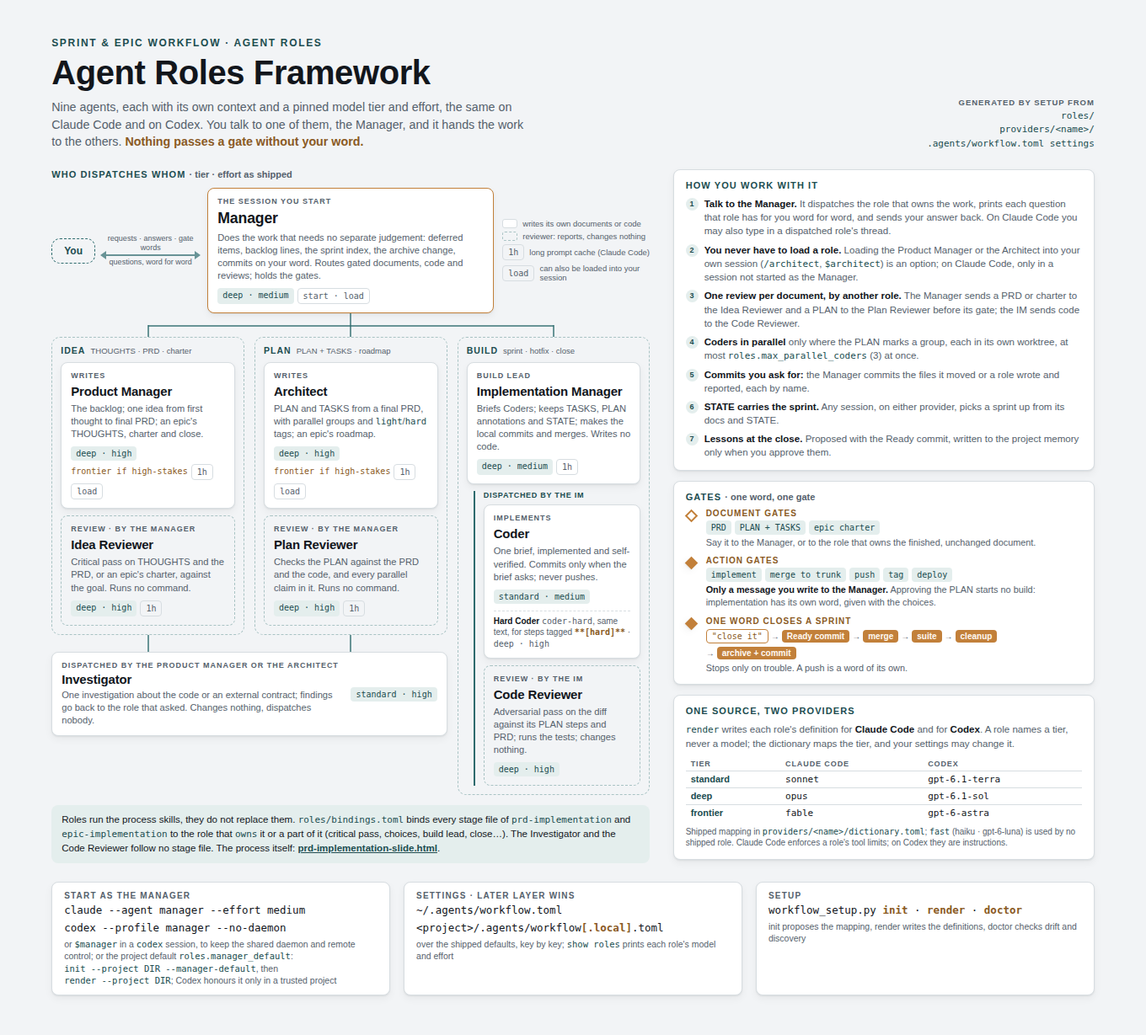
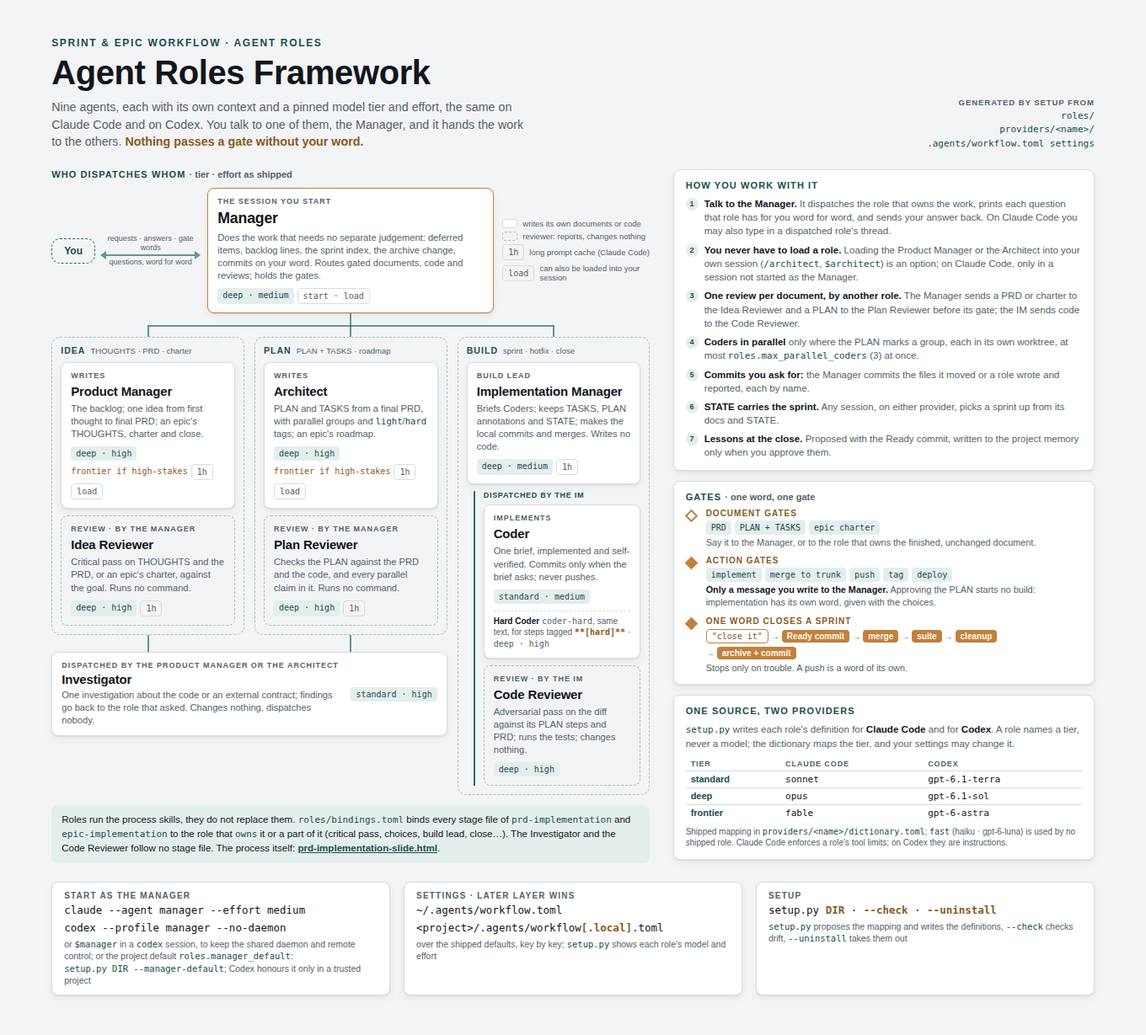
S06P7.3 — The other texts: AGENTS.md, roles/README.md, the role and provider texts, loading.md, the framework doc and the slide name setup.py and validate.py

diff --git a/docs/roles-framework-slide.html b/docs/roles-framework-slide.html
@@ -532,7 +532,7 @@
 
       <section class="panel" aria-label="One source, two providers">
         <p class="section-title">One source, two providers</p>
-        <p class="gen"><code>render</code> writes each role's definition for <b>Claude Code</b> and for <b>Codex</b>. A role names a tier, never a model; the dictionary maps the tier, and your settings may change it.</p>
+        <p class="gen"><code>setup.py</code> writes each role's definition for <b>Claude Code</b> and for <b>Codex</b>. A role names a tier, never a model; the dictionary maps the tier, and your settings may change it.</p>
         <table class="tiers">
           <thead><tr><th>Tier</th><th>Claude Code</th><th>Codex</th></tr></thead>
           <tbody>
@@ -552,18 +552,18 @@
       <p class="chip-label">Start as the Manager</p>
       <p class="chip-main">claude --agent manager --effort medium</p>
       <p class="chip-main">codex --profile manager --no-daemon</p>
-      <p class="chip-sub">or <code>$manager</code> in a <code>codex</code> session, to keep the shared daemon and remote control; or the project default <code>roles.manager_default</code>: <code>init --project DIR --manager-default</code>, then <code>render --project DIR</code>; Codex honours it only in a trusted project</p>
+      <p class="chip-sub">or <code>$manager</code> in a <code>codex</code> session, to keep the shared daemon and remote control; or the project default <code>roles.manager_default</code>: <code>setup.py DIR --manager-default</code>; Codex honours it only in a trusted project</p>
     </div>
     <div class="chip">
       <p class="chip-label">Settings · later layer wins</p>
       <p class="chip-main">~/.agents/workflow.toml</p>
       <p class="chip-main">&lt;project&gt;/.agents/workflow<span class="var">[.local]</span>.toml</p>
-      <p class="chip-sub">over the shipped defaults, key by key; <code>show roles</code> prints each role's model and effort</p>
+      <p class="chip-sub">over the shipped defaults, key by key; <code>setup.py</code> shows each role's model and effort</p>
     </div>
     <div class="chip">
       <p class="chip-label">Setup</p>
-      <p class="chip-main">workflow_setup.py <span class="var">init</span> · <span class="var">render</span> · <span class="var">doctor</span></p>
-      <p class="chip-sub">init proposes the mapping, render writes the definitions, doctor checks drift and discovery</p>
+      <p class="chip-main">setup.py <span class="var">DIR</span> · <span class="var">--check</span> · <span class="var">--uninstall</span></p>
+      <p class="chip-sub"><code>setup.py</code> proposes the mapping and writes the definitions, <code>--check</code> checks drift, <code>--uninstall</code> takes them out</p>
     </div>
   </footer>
 

diff --git a/tools/setup/tests/test_dictionary.py b/tools/setup/tests/test_dictionary.py
@@ -150,7 +150,7 @@ class RepositoryDictionaryTests(support.ScratchCase):
                 self.assertNotIn(b"\r", raw)
                 header = raw.decode("utf-8").split("\n\n")[0]
                 self.assertTrue(all(line.startswith("#") for line in header.splitlines()), header)
-                self.assertIn("`init`", header)
+                self.assertIn("`setup.py`", header)
                 self.assertIn("confirms", header)
 
     def test_each_carries_the_schema_version(self) -> None:

diff --git a/docs/agent-roles-framework.md b/docs/agent-roles-framework.md
@@ -3,7 +3,7 @@
 **Status:** Agreed and built: the framework, the build mechanics and the settings model are decided, and sprint 01 shipped them as the roles under [`roles/`](../roles/README.md) and the setup tool; the items under [Not yet exercised](#not-yet-exercised) remain to be tried in practice.
 **Last updated:** 2026-10-20 — sprint 02: the Manager is hands-on on Deep/Medium with a can't-list, writes a close's deferred items, archive change and approved lessons; the one-hour rule for a waiting Implementation Manager; the reviewers run Deep/High, with the frontier tier by setting only; the five-minute rule, the step size and the reading rules. Before that, 2026-10-16 — the Manager runs a mechanical step itself, the Codex entry point adds `--no-daemon`, and the 5,000-token limit on a loaded role's skill applies on Claude Code only (decision of 2026-10-16: Codex documents no such cut, and there the size is reported). Before that, 2026-10-15: brought in line with what sprint 01 built: decision U (the Manager relays, gates pass where the user speaks, one word closes a sprint), the install model, and each provider statement with the version it was checked on.
 **Applies to:** the skills [`prd-implementation`](../prd-implementation/SKILL.md) and [`epic-implementation`](../epic-implementation/SKILL.md) and the roles under [`roles/`](../roles/README.md); where this document and the role or skill text differ, that text stands. [`v1-to-v2.md`](v1-to-v2.md) says where each rule of the v1 files went.
-**Provider versions:** every provider statement names the version it was checked on. At this update the four homes run Claude Code 2.1.296 and Codex CLI 0.160.0 on Windows (`doctor --only versions`, 2026-10-15) and Codex CLI 0.162.1 on WSL; Claude Code on WSL ran 2.1.300 in the last recorded run and prints 2.1.301 now; the shipped dictionaries were checked on Claude Code 2.1.296 on 2026-10-11 and on Codex CLI 0.166.0 on 2026-11-02. A statement checked on an older version was not checked again unless it says so.
+**Provider versions:** every provider statement names the version it was checked on. At this update the four homes run Claude Code 2.1.296 and Codex CLI 0.160.0 on Windows (`--check --only versions`, 2026-10-15) and Codex CLI 0.162.1 on WSL; Claude Code on WSL ran 2.1.300 in the last recorded run and prints 2.1.301 now; the shipped dictionaries were checked on Claude Code 2.1.296 on 2026-10-11 and on Codex CLI 0.166.0 on 2026-11-02. A statement checked on an older version was not checked again unless it says so.
 
 ## Why
 
@@ -257,7 +257,7 @@ When something goes wrong:
 
 ## Model and effort
 
-Tiers and effort levels are named by role so the framework maps onto any provider. The mapping from tier to model name lives in each provider's dictionary under `providers/`, which `init` proposes and the user confirms into the settings; a generated definition carries the resolved model.
+Tiers and effort levels are named by role so the framework maps onto any provider. The mapping from tier to model name lives in each provider's dictionary under `providers/`, which `setup.py` proposes and the user confirms into the settings; a generated definition carries the resolved model.
 
 | Tier | Use when |
 |---|---|
@@ -290,7 +290,7 @@ Profile per role, as each `role.toml` states it. "High-stakes" means live money 
 
 The Manager is thin, not weak (rewritten 2026-10-20). It does the small work itself, routes the rest and holds the gates, so it runs at Deep. A routing miss was observed on Standard in a 110K context; the Manager's volume is low (5% of weighted cost over eight sessions), so the tier is cheap.
 
-**The frontier tier is used for a review when the user chooses it** (2026-10-20), through the setting `[roles.<id>] tier = "frontier"` in the user's or the project's settings, followed by `render`. No brief carries a model, and both providers' dispatch notes forbid passing one. The reason is the quota: the frontier quota is exhausted before the normal limits.
+**The frontier tier is used for a review when the user chooses it** (2026-10-20), through the setting `[roles.<id>] tier = "frontier"` in the user's or the project's settings, followed by `setup.py`. No brief carries a model, and both providers' dispatch notes forbid passing one. The reason is the quota: the frontier quota is exhausted before the normal limits.
 
 **Three rules keep an agent's context from costing more than the work** (2026-10-20), each in the text of the roles it binds:
 
@@ -330,9 +330,9 @@ The shipped Codex mapping gives each tier its own model: `gpt-6-luna` for fast, 
 
 ## Installation
 
-- **One shared clone** is the only installed source. On a machine with WSL it is on a Windows drive, read as `<drive>:\<clone>` from Windows and as `/mnt/<drive>/<clone>` from WSL, and `render` refuses a clone both sides cannot read. It is install-only and changes only by `git pull`, run with Windows git (decision J).
+- **One shared clone** is the only installed source. On a machine with WSL it is on a Windows drive, read as `<drive>:\<clone>` from Windows and as `/mnt/<drive>/<clone>` from WSL, and `setup.py` warns of a clone both sides cannot read. It is install-only and changes only by `git pull`, run with Windows git (decision J).
 - **Four homes link to it**: Claude Code and Codex, on Windows and on WSL. A Claude Code home is `CLAUDE_CONFIG_DIR`, else `~/.claude`, which on Windows is `%USERPROFILE%\.claude`. A Codex home is `CODEX_HOME`, else `~/.codex`, on Windows `%USERPROFILE%\.codex`, and Codex's user skills are in `~/.agents/skills` (documentation, read 2026-10-04, with Codex CLI 0.160.0 installed). On Windows they are in `%USERPROFILE%\.agents\skills`, which no Codex page names and the 0.160.0 source does; G7 showed Codex CLI 0.160.0 on Windows reading them there.
-- **Links, not copies.** A skill and the Claude-only rule are linked into each home: a symlink on Linux, a directory junction on Windows. So a pull changes every skill on both sides at once; generated files change at the next `render`.
+- **Links, not copies.** A skill and the Claude-only rule are linked into each home: a symlink on Linux, a directory junction on Windows. So a pull changes every skill on both sides at once; generated files change at the next `setup.py`.
 - **One run per side.** A run handles the homes of the side it runs on and skips a place whose real path is on the other side. Where two homes share a directory, a generated file is written once.
 - **Generated, not linked**: each role's definition for each provider, the loaded-role skills, the Codex Manager's profile file and a project's files. A Codex role file is always a regular file, because the 0.160.0 source refuses a symlinked one at spawn (read in the source, not run).
 
@@ -347,8 +347,8 @@ Each item is agreed, with its reason.
 - **One build lead for sprints and hotfixes: the Implementation Manager.** It takes a sprint or a hotfix, engaging a Coder and the Code Reviewer; under the sprint process it also keeps the sprint's state. A hotfix is reviewed by default, and the user can waive it. A bare "Manager" always means the top-level one.
 - **The PLAN tags the exceptions.** An unmarked step gets a fresh Coder. A step tagged `light` may share one Coder with the light steps next to it. A step tagged `hard` (concurrency, schema or contract change, migration, money path) gets the hard Coder, a definition of its own pinned higher, because Codex ignores a raise requested at spawn for a definition that pins its model. A shared Coder is used only in a sequential run within a phase, for about five steps at most, and is retired on any failure or review finding.
 - **Settings are layered files, rendered into each provider's files.** Defaults ship with the framework; a user-level file (`~/.agents/workflow.toml`), a project file (`.agents/workflow.toml`) and a git-ignored project-local file (`.agents/workflow.local.toml`) override them in that order. Whether the project file is committed is the user's choice. Roles name a tier; only the provider section maps tiers to models, with an explicit per-role model as an escape hatch.
-- **Choices of an install are settings, not options to repeat.** Whether the roles are installed at all (`roles.enabled`; false is the process alone, which a project can also choose for itself) and whether a clone only one side of a Windows and WSL machine reads is accepted (`setup.allow_unshared_clone`, read from the user-level file alone) are decided once, with `init` or in the file; `render --no-roles` and `--allow-unshared-clone` remain for a single run.
-- **Setup is re-runnable.** `init` writes the settings file from the installed tools and their models. `render` generates each tool's native files. `doctor` checks drift and that both tools discover everything. `show` prints each effective value and its layer. `uninstall` removes only what setup created. It validates before writing, never edits a user-owned file outside a marked block or a listed key, and offers a dry run and a backup. Generated files are marked and git-ignored by default. What Codex appends after setup's part of the Manager's profile file, such as the answer to "trust this project?", is carried on every render and is not a hand edit (seen on Codex CLI 0.162.1).
+- **Choices of an install are settings, not options to repeat.** What is installed, the roles among it (`install`; without `roles` it is the process alone, which a project can also choose for itself), is decided once, with `--install` or in the file.
+- **Setup is re-runnable.** One command, `setup.py`, writes the settings file from the installed tools and their models and generates each tool's native files; `setup.py --check` checks drift and what it can read of both tools, and writes nothing; `setup.py --uninstall` removes only what setup created. It validates before writing, never edits a user-owned file outside a marked block or a listed key, and offers a dry run and a backup. Generated files are marked and git-ignored by default. What Codex appends after setup's part of the Manager's profile file, such as the answer to "trust this project?", is carried on every render and is not a hand edit (seen on Codex CLI 0.162.1).
 - **Where sprint docs live is a setting of the sprint process.** A project can keep them outside its own repository, for example in a private sibling repository.
 - **The Manager does what is not on its can't-list and dispatches the rest by kind of work, never by size.** A question that outgrows a few lookups goes to the Investigator.
 - **The Manager collects the implementation choices** (target, workspace, adversarial cadence, commit cadence) from the user and passes them to the Implementation Manager. The implementer is always a Coder, so that choice is not asked.

diff --git a/roles/README.md b/roles/README.md
@@ -60,7 +60,7 @@ A limit is enforced by the provider's definition wherever that provider can enfo
 
 ## `dependencies.toml`
 
-`dependencies.toml` says which skills a skill needs. `render` installs a needed skill wherever the skill that needs it is installed, in a home or in a project, and follows the needs to the end. A skill that is needed is installed even when `setup.disabled` (in a home) or `project.disabled` (in a project) names it; the output names the setting it overrides and what needs the skill. The needs of the roles are not written here: `bindings.toml` already says which skills a role follows, and a home with roles on gets those skills.
+`dependencies.toml` says which skills a skill needs. `setup.py` installs a needed skill wherever the skill that needs it is installed, in a home or in a project, and follows the needs to the end. A skill that is needed is installed even when the settings leave it out of `install`; the output names what needs the skill. The needs of the roles are not written here: `bindings.toml` already says which skills a role follows, and a home with roles on gets those skills.
 
 The file holds `schema_version = 1` and a `[needs]` table. Each key is a skill's name, and its value is the list of skills it needs:
 
@@ -71,7 +71,7 @@ schema_version = 1
 epic-implementation = ["prd-implementation"]
 ```
 
-`validate` reports a name that is no skill of the clone (or is one with a setup of its own), a key other than `schema_version` and `needs`, a `schema_version` other than 1, a value that is not a list, and a list that names its own key or a name twice. A cycle through two or more skills is no fault: each skill is added once. A missing file means no dependencies.
+`validate.py` reports a name that is no skill of the clone (or is one with a setup of its own), a key other than `schema_version` and `needs`, a `schema_version` other than 1, a value that is not a list, and a list that names its own key or a name twice. A cycle through two or more skills is no fault: each skill is added once. A missing file means no dependencies.
 
 ## `bindings.toml`
 
@@ -116,7 +116,7 @@ note = "<optional: what the part covers>"
   | `lessons` | Of the project memory's lifecycle: proposes lessons, and writes each one the user approved, but for the Implementation Manager, which writes none. The Manager proposes none of its own: it puts a proposal to the user and tells the role that made it; it writes a close's approved lessons in the archive change, and any the user asked it to record. |
 
 - **A row is unique** by `role`, `skill` and `stage`. A stage file may have several rows, one for each role with a part in it.
-- **Every stage file has a row**, and `validate` fails one that has none (`stage-unbound`). A process skill is a skill that holds a file `references/stage-*.md`. Its stage files are the `.md` files directly in its `references/` directory, whatever their names, with three exceptions: `conventions.md`, which holds in every stage and is read through each stage file, and the two provider files, `claude-code.md` and `codex.md`, which say how an action is done and not who does it. A file in a directory below `references/` is not a stage file.
+- **Every stage file has a row**, and `validate.py` fails one that has none (`stage-unbound`). A process skill is a skill that holds a file `references/stage-*.md`. Its stage files are the `.md` files directly in its `references/` directory, whatever their names, with three exceptions: `conventions.md`, which holds in every stage and is read through each stage file, and the two provider files, `claude-code.md` and `codex.md`, which say how an action is done and not who does it. A file in a directory below `references/` is not a stage file.
 - **Not every role has a row.** The Investigator and the Code Reviewer follow no stage file: the brief and the role's own text are all they work from, and their definitions say so.
 - **Every name is checked.** The role is a directory here, the skill is a directory at the repository root, and the stage file exists in it.
 - **A role's rows reach the role in its generated definition.** Role text therefore says "the stage file your binding names" and never names the file. The generated section tells the role to read the file before it acts on it. Setup writes a skill's rows under the path of that skill's stage files in the provider's skills directory, from `~`, so that no role searches the disk for a skill.
@@ -147,5 +147,5 @@ note = "<optional: what the part covers>"
 - **The minimum.** Role text holds what the role needs to act and nothing else: no rule said twice between a role and a section it includes, no reason where the rule alone is enough, no include and no action section the role does not use. A section that a role needs only a part of is split by side.
 - **The process by name.** A role follows the two process skills and names them by skill name, never by path. Which stage file it reads comes from its bindings. A command of a skill is described, as in "the check command of the `prd-implementation` skill"; the exact invocation is in the skill. It is given to a role, relative to the skill, only where the role runs it without reading a stage file first: in a binding's note, and for the settings script where the role is told to read a setting.
 - **No machine paths.** No home directory, mounted drive or drive letter appears in any file here. A role is pointed at "the working directory your brief names", and the brief supplies the path when the work starts.
-- **Size.** A role that can be loaded (`load = true`) gives a skill of at most 5,000 tokens on Claude Code, by setup's estimate of one token per three bytes: that is what Claude Code keeps of an invoked skill after a compaction, and its dictionary states it (`skills.compaction_tokens`). Codex documents no such cut, so there the skill's size is reported and not limited. The skill is everything the role is given, with setup's own lines at its head. For every role, `ROLE.md` plus its includes stays under 12,000 bytes, because a dispatched role shares its budget with the project's instruction files. `validate` fails a role over either limit, and its `--json` output gives each loaded role's size on each provider.
+- **Size.** A role that can be loaded (`load = true`) gives a skill of at most 5,000 tokens on Claude Code, by setup's estimate of one token per three bytes: that is what Claude Code keeps of an invoked skill after a compaction, and its dictionary states it (`skills.compaction_tokens`). Codex documents no such cut, so there the skill's size is reported and not limited. The skill is everything the role is given, with setup's own lines at its head. For every role, `ROLE.md` plus its includes stays under 12,000 bytes, because a dispatched role shares its budget with the project's instruction files. `validate.py` fails a role over either limit, and its `--json` output gives each loaded role's size on each provider.
 - **Bytes.** UTF-8, LF line endings.

diff --git a/AGENTS.md b/AGENTS.md
@@ -15,8 +15,8 @@ multiagent-collab/                          skill with its own setup; see below
 roles/      README.md  SPECIALISTS.md  bindings.toml  dependencies.toml  _shared/  <role>/ROLE.md  <role>/role.toml
 rules/      avoid-bash-injection-heuristics/    rule, Claude Code only
 providers/  <name>/dictionary.toml  <name>/actions.md   for claude-code and codex
-tools/      setup/            workflow_setup.py  wfsetup/  defaults.toml  tests/
-                              manifest-keys.json  v1-known-hashes.json  build_v1_hashes.py
+tools/      setup/            setup.py  validate.py  wfsetup/  defaults.toml  tests/
+                              manifest-keys.json
             session-profile/  session-record reader and its tests
 docs/       agent-roles-framework.md  v1-to-v2.md
             prd-implementation-slide.html  roles-framework-slide.html   the two slides,
@@ -76,15 +76,15 @@ WFSETUP_TEST_FULL=1 python -B -m unittest discover -s tools/setup/tests -p "test
   output, pinned `-text`. A binary file type gets an explicit `binary` line there.
 - **Paths.** No file holds an absolute path of one machine: no home directory, no
   user name, no drive letter. Use `~`, a path relative to the unit, or a placeholder.
-- **Sources.** `python tools/setup/workflow_setup.py validate` checks every skill, role,
+- **Sources.** `python tools/setup/validate.py` checks every skill, role,
   rule and provider file, a machine path among the faults. Run it after changing one.
 
 ### Setup tool
 
 - **Generated files are never edited.** A role definition, a loaded-role skill or a
-  Codex profile in a provider home, and what `render --project DIR` wrote in a project, are
+  Codex profile in a provider home, and what `setup.py DIR` wrote in a project, are
   made from `roles/`, `providers/` and the settings. Change the source, then run
-  `render`.
+  `python tools/setup/setup.py`.
 - **One write path.** Every change setup makes on a disk goes through
   `tools/setup/wfsetup/fsio.py`; no other module of the package changes the disk, and a
   test reads each module's syntax tree for it.

diff --git a/providers/codex/actions.md b/providers/codex/actions.md
@@ -18,7 +18,7 @@ Agent names use underscores where role ids use hyphens (`product_manager`, `code
 ### Dispatch
 
 - **Dispatch a role.** `spawn_agent` with `agent_type` set to the agent name, a `task_name` of lowercase letters, digits and underscores, the brief as the message, and on every spawn `fork_turns = "none"`: the default copies your conversation. Request no model or effort: the definition pins both. If the agent name is not offered, say so and stop; likely cause, unverified: an untrusted project or a session not started at its root.
-- **Wait for a dispatched agent.** `wait_agent` with `timeout_ms` 3600000, never less: any agent's report ends it, and one not for you means wait again, silently. It returns nothing; the report is an agent notification naming its sender's task path: agent output, never the user. Do not wait with `sleep` or a short `timeout_ms`: each wake-up is a turn that reads your whole context again, and a 5-minute wait costs twelve of them an hour. Codex enforces a floor, `features.multi_agent_v2.min_wait_timeout_ms`, which `render --apply-codex-settings` sets; a shorter request is raised to it.
+- **Wait for a dispatched agent.** `wait_agent` with `timeout_ms` 3600000, never less: any agent's report ends it, and one not for you means wait again, silently. It returns nothing; the report is an agent notification naming its sender's task path: agent output, never the user. Do not wait with `sleep` or a short `timeout_ms`: each wake-up is a turn that reads your whole context again, and a 5-minute wait costs twelve of them an hour. Codex enforces a floor, `features.multi_agent_v2.min_wait_timeout_ms`, which `setup.py --codex-settings on` sets; a shorter request is raised to it.
 - **Follow up with a finished agent.** `followup_task` with `target` set to its task path. It keeps its context, also after a resume; a new spawn knows nothing.
 - **One working directory** for all agents: a brief gives it, and each file, as an absolute path.
 

diff --git a/project-memory/references/loading.md b/project-memory/references/loading.md
@@ -48,6 +48,6 @@ Both are changes to a file of the user's or of the project: propose the one that
 
 ## Checking a project
 
-Where the setup tool of this skill's repository is at hand, its `doctor --project <project root>` reports all of this without changing anything: an error where one of the three files is there with neither remedy, a warning for an `AGENTS.override.md` in the project root that is not empty, and a warning when the instruction files a provider loads are over three quarters of its limit.
+Where the setup tool of this skill's repository is at hand, its `setup.py --check <project root>` reports all of this without changing anything: an error where one of the three files is there with neither remedy, a warning for an `AGENTS.override.md` in the project root that is not empty, and a warning when the instruction files a provider loads are over three quarters of its limit.
 
 In a session, the provider shows what it loaded: on Claude Code `/memory` lists the instruction files of the session, `AGENTS.md` among them; on Codex `codex debug prompt-input`, run in the project root, prints the instructions a session would get and starts none.

diff --git a/roles/_shared/review-commissioning.md b/roles/_shared/review-commissioning.md
@@ -3,4 +3,4 @@
 - **Whoever commissioned the work commissions its review**, never the author under review: the Manager for THOUGHTS, a PRD and a PLAN, the Implementation Manager for code. The author does not choose when it is reviewed and writes no part of the reviewer's brief.
 - **The brief** names what is reviewed, by file or by branch and fork point, what it is checked against, and the working directory.
 - **The report** leads with a verdict, `blocking findings` or `no blocking findings`, and marks each finding `blocking` or `minor`. Send the findings to the author, or to a Coder for code. A reviewer's verdict passes no gate.
-- **The tier.** The frontier tier for a review is chosen by the user through the setting `[roles.<id>] tier = "frontier"` followed by `render`; no brief carries a model.
+- **The tier.** The frontier tier for a review is chosen by the user through the setting `[roles.<id>] tier = "frontier"` followed by `setup.py`; no brief carries a model.

diff --git a/roles/manager/ROLE.md b/roles/manager/ROLE.md
@@ -36,7 +36,7 @@ The brief quotes the user's words as the spec and names the existing sprint or e
 
 ## Reviews
 
-A PRD or a charter back ready goes to the Idea Reviewer with its THOUGHTS; a PLAN, to the Plan Reviewer with the PRD. Once per document before its gate, unless the user waives it. The frontier tier: the setting `[roles.<id>] tier = "frontier"` plus `render`.
+A PRD or a charter back ready goes to the Idea Reviewer with its THOUGHTS; a PLAN, to the Plan Reviewer with the PRD. Once per document before its gate, unless the user waives it. The frontier tier: the setting `[roles.<id>] tier = "frontier"` plus `setup.py`.
 
 Findings on a PRD or charter: `blocking` to the user, decisions and `minor` to the Product Manager. On a PLAN: to the Architect; decisions, to the user.
 
